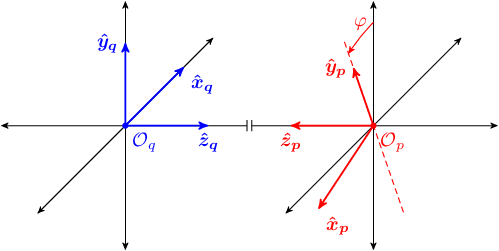
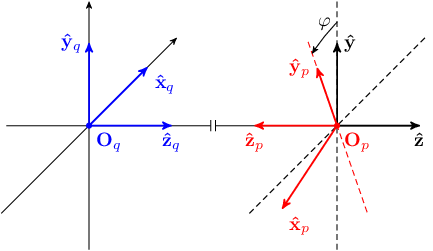
Tweaks

diff --git a/figure.tex b/figure.tex
@@ -1,12 +1,11 @@
 \documentclass{article}
-\usepackage{bm}
 \usepackage{tikz}
 
 \usepackage[psfixbb,graphics,tightpage,active]{preview}
 \PreviewEnvironment{tikzpicture}
 \usepgflibrary{arrows.spaced}
 
-\newcommand{\unit}[2]{\bm{\hat{#1}_{#2}}}
+\newcommand{\unit}[2]{{\bf\hat{#1}}_{#2}}
 
 \pgfmathsetmacro{\axlen}{1.5}
 \pgfmathsetmacro{\arcrad}{1.25}
@@ -18,26 +17,26 @@
     x={(0.707cm,0.707cm)},y={(0cm,1cm)},z={(1cm,0cm)}
   , scale=1.5,
   , >=stealth'
-  , axis/.style={<->}
+  , axis/.style={->}
   , unit/.style={->,thick}
   , lab/.style={blue}
   , probe/.style={red}
   ]
 
 \coordinate (O_q) at (0,0,-\deltaz); % lab origin
-\coordinate (O_p) at (0,0, \deltaz); % probe origin
+\coordinate (O_p) at (0,0,\deltaz);  % probe origin
 
 % shared z axis with break
-\draw[axis,<-spaced |] (O_q) ++(0,0,-\axlen) -- (0,0,0);
-\draw[axis,<-spaced |] (O_p) ++(0,0, \axlen) -- (0,0,0);
+\draw[axis,-spaced |] (O_q) ++(0,0,-1) -- (0,0,0);
+\draw[axis,-spaced |] (O_p) ++(0,0, 1) -- (0,0,0);
 
 % lab axes
 \draw[axis] (O_q) +(-\axlen,0,0) -- +(\axlen,0,0);
 \draw[axis] (O_q) +(0,-\axlen,0) -- +(0,\axlen,0);
 
 % translated lab axes
-\draw[axis] (O_p) +(-\axlen,0,0) -- +(\axlen,0,0);
-\draw[axis] (O_p) +(0,-\axlen,0) -- +(0,\axlen,0);
+\draw[densely dashed] (O_p) +(-\axlen,0,0) -- +(\axlen,0,0);
+\draw[densely dashed] (O_p) +(0,-\axlen,0) -- +(0,\axlen,0);
 
 % lab unit vectors
 \draw[unit,lab] (O_q) -- +(1,0,0) node[below right]{$\unit{x}{q}$};
@@ -47,16 +46,21 @@
 % probe y axis
 \draw[probe,densely dashed] (O_p) +(90+\vphi:-\axlen) -- +(90+\vphi:\axlen);
 
+% translated unit vectors
+\draw[unit] (O_p) -- +(0,0,1) node[below]{$\unit{z}{}$};
+\draw[unit] (O_p) -- +(0,1,0) node[right]{$\unit{y}{}$};
+
 % probe unit vectors
 \draw[unit,probe] (O_p) -- +(\vphi:-1)   node[below right]{$\unit{x}{p}$};
 \draw[unit,probe] (O_p) -- +(90+\vphi:1) node[left]       {$\unit{y}{p}$};
 \draw[unit,probe] (O_p) -- +(0,0,-1)     node[below]      {$\unit{z}{p}$};
 
 % phi arc
-\draw[->,probe] (O_p) +(0,\arcrad,0) arc (90:90+\vphi:\arcrad) node[midway, above]{$\varphi$};
+\draw[->] (O_p) +(0,\arcrad,0) arc (90:90+\vphi:\arcrad) node[midway, above]{$\varphi$};
 
-\draw[lab,fill] (O_q) circle[radius=0.3mm] node [below right] {$\mathcal{O}_q$};
-\draw[probe,fill] (O_p) circle[radius=0.3mm] node [below right] {$\mathcal{O}_p$};
+% origins
+\draw[lab,fill] (O_q) circle[radius=0.3mm] node[below right]{${\bf O}_q$};
+\draw[probe,fill] (O_p) circle[radius=0.3mm] node[below right]{${\bf O}_p$};
 
 \end{tikzpicture}
 \end{document}
